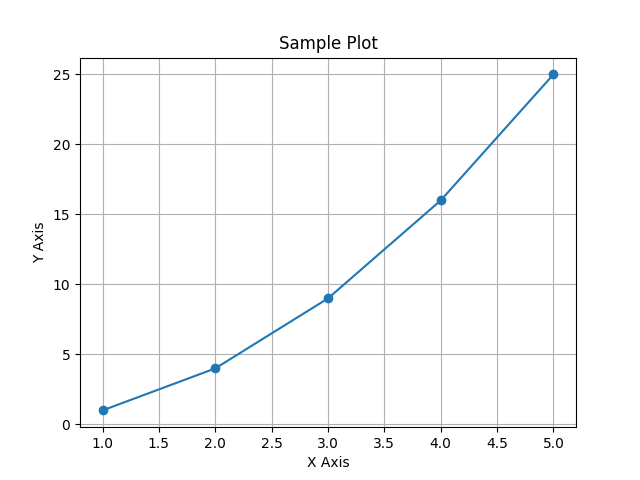
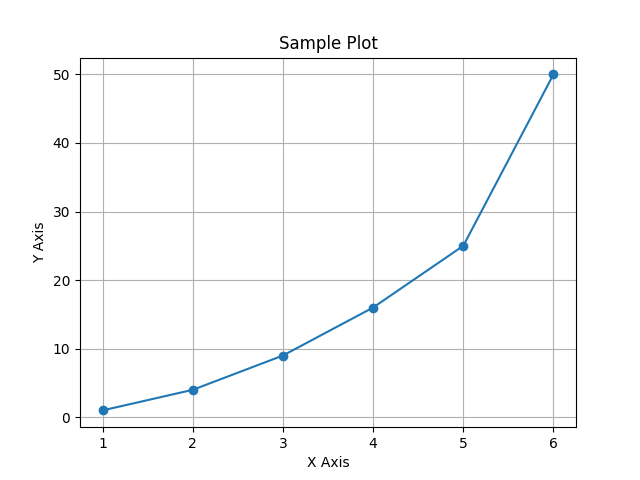
그래프 생성, matplot

diff --git a/matplot_example.py b/matplot_example.py
@@ -1,8 +1,8 @@
 import matplotlib.pyplot as plt
 
 # 간단한 데이터
-x = [1, 2, 3, 4, 5]
-y = [1, 4, 9, 16, 25]
+x = [1, 2, 3, 4, 5, 6]
+y = [1, 4, 9, 16, 25, 50]
 
 # 그래프 그리기
 plt.plot(x, y, marker='o')
